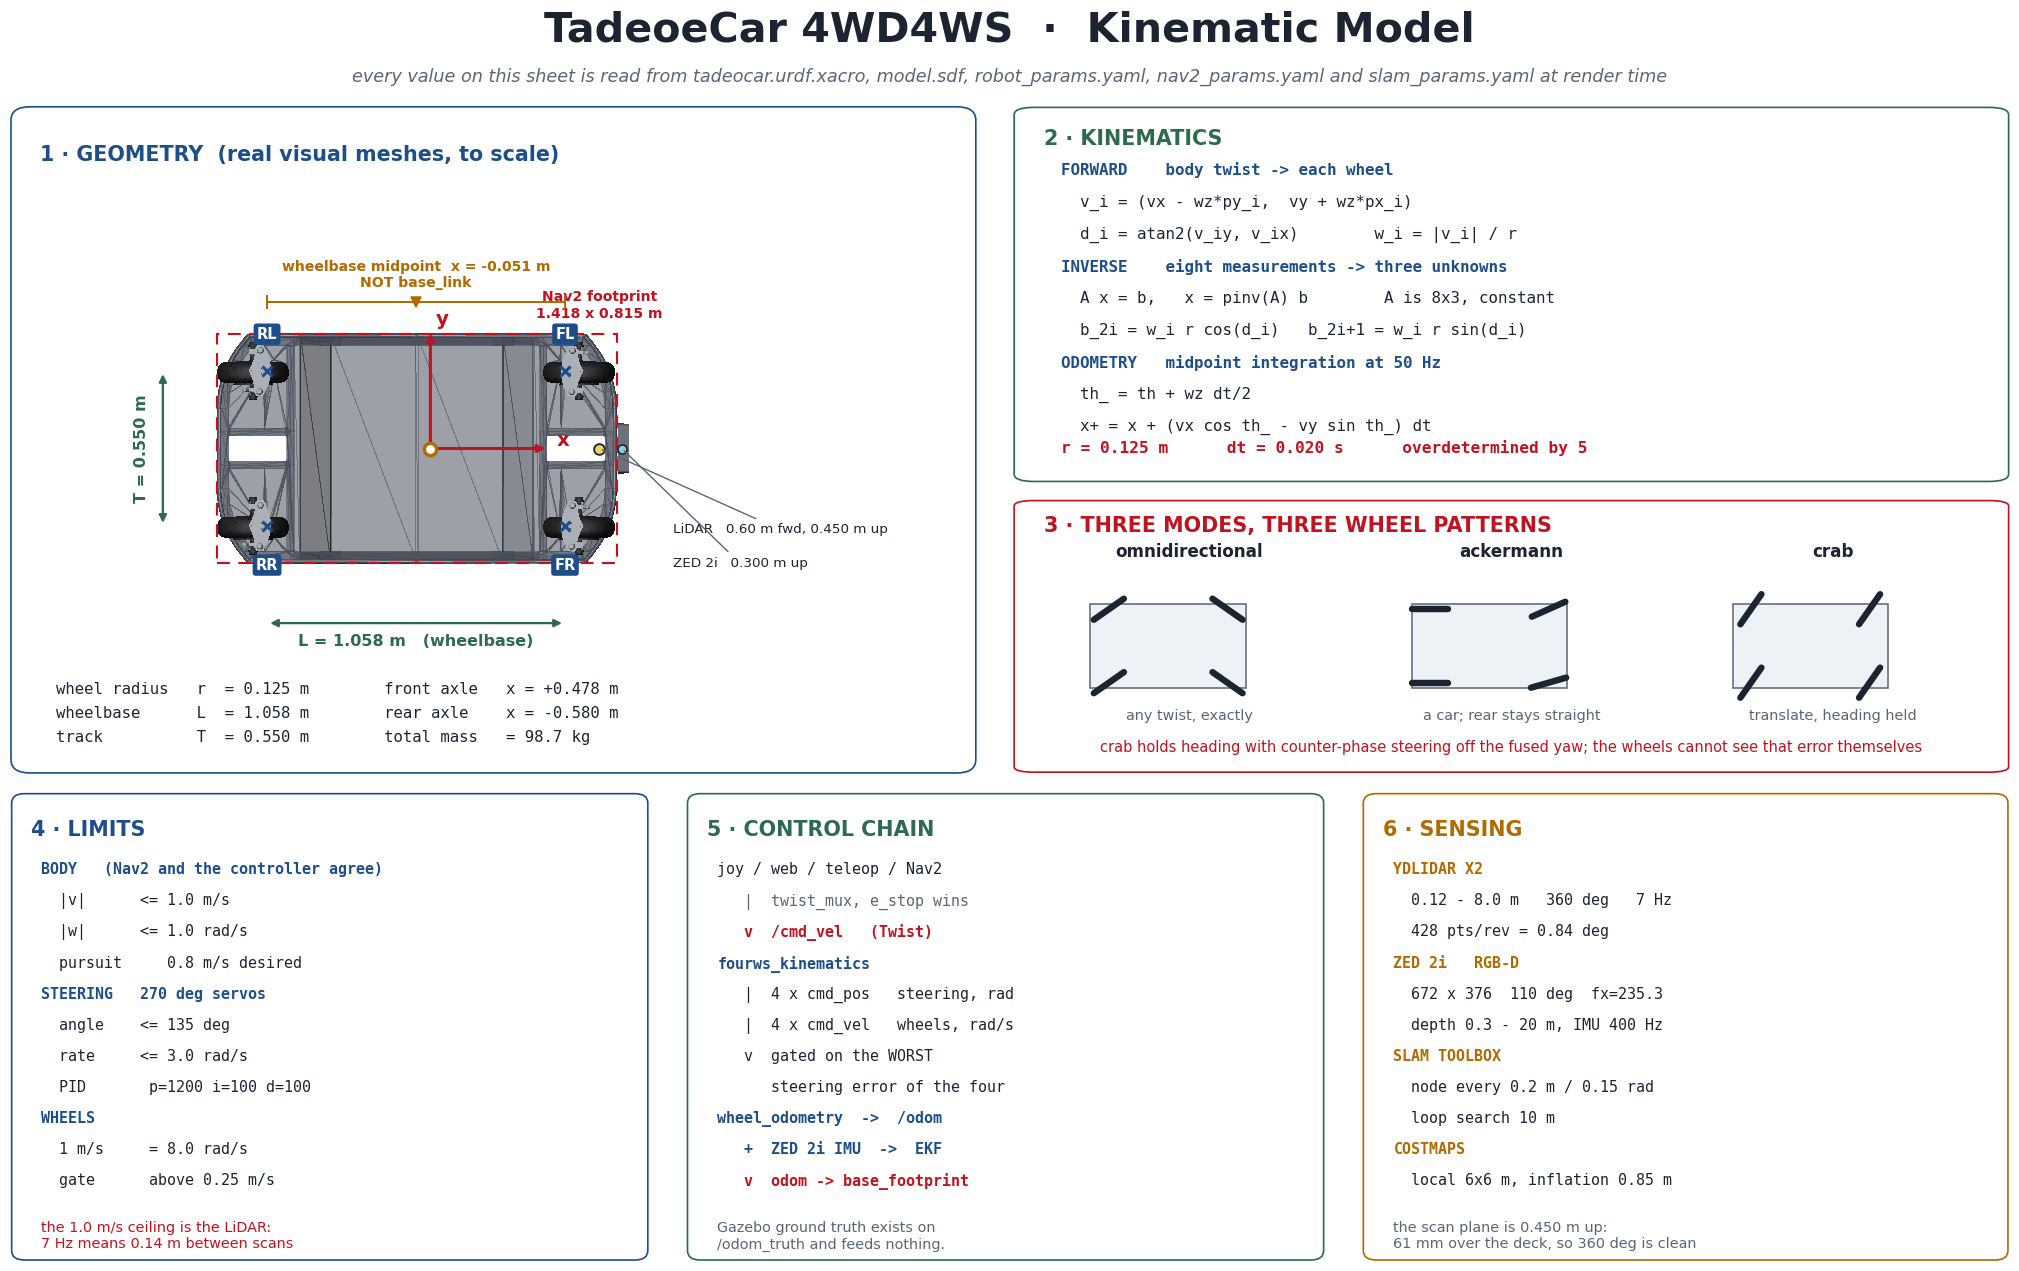
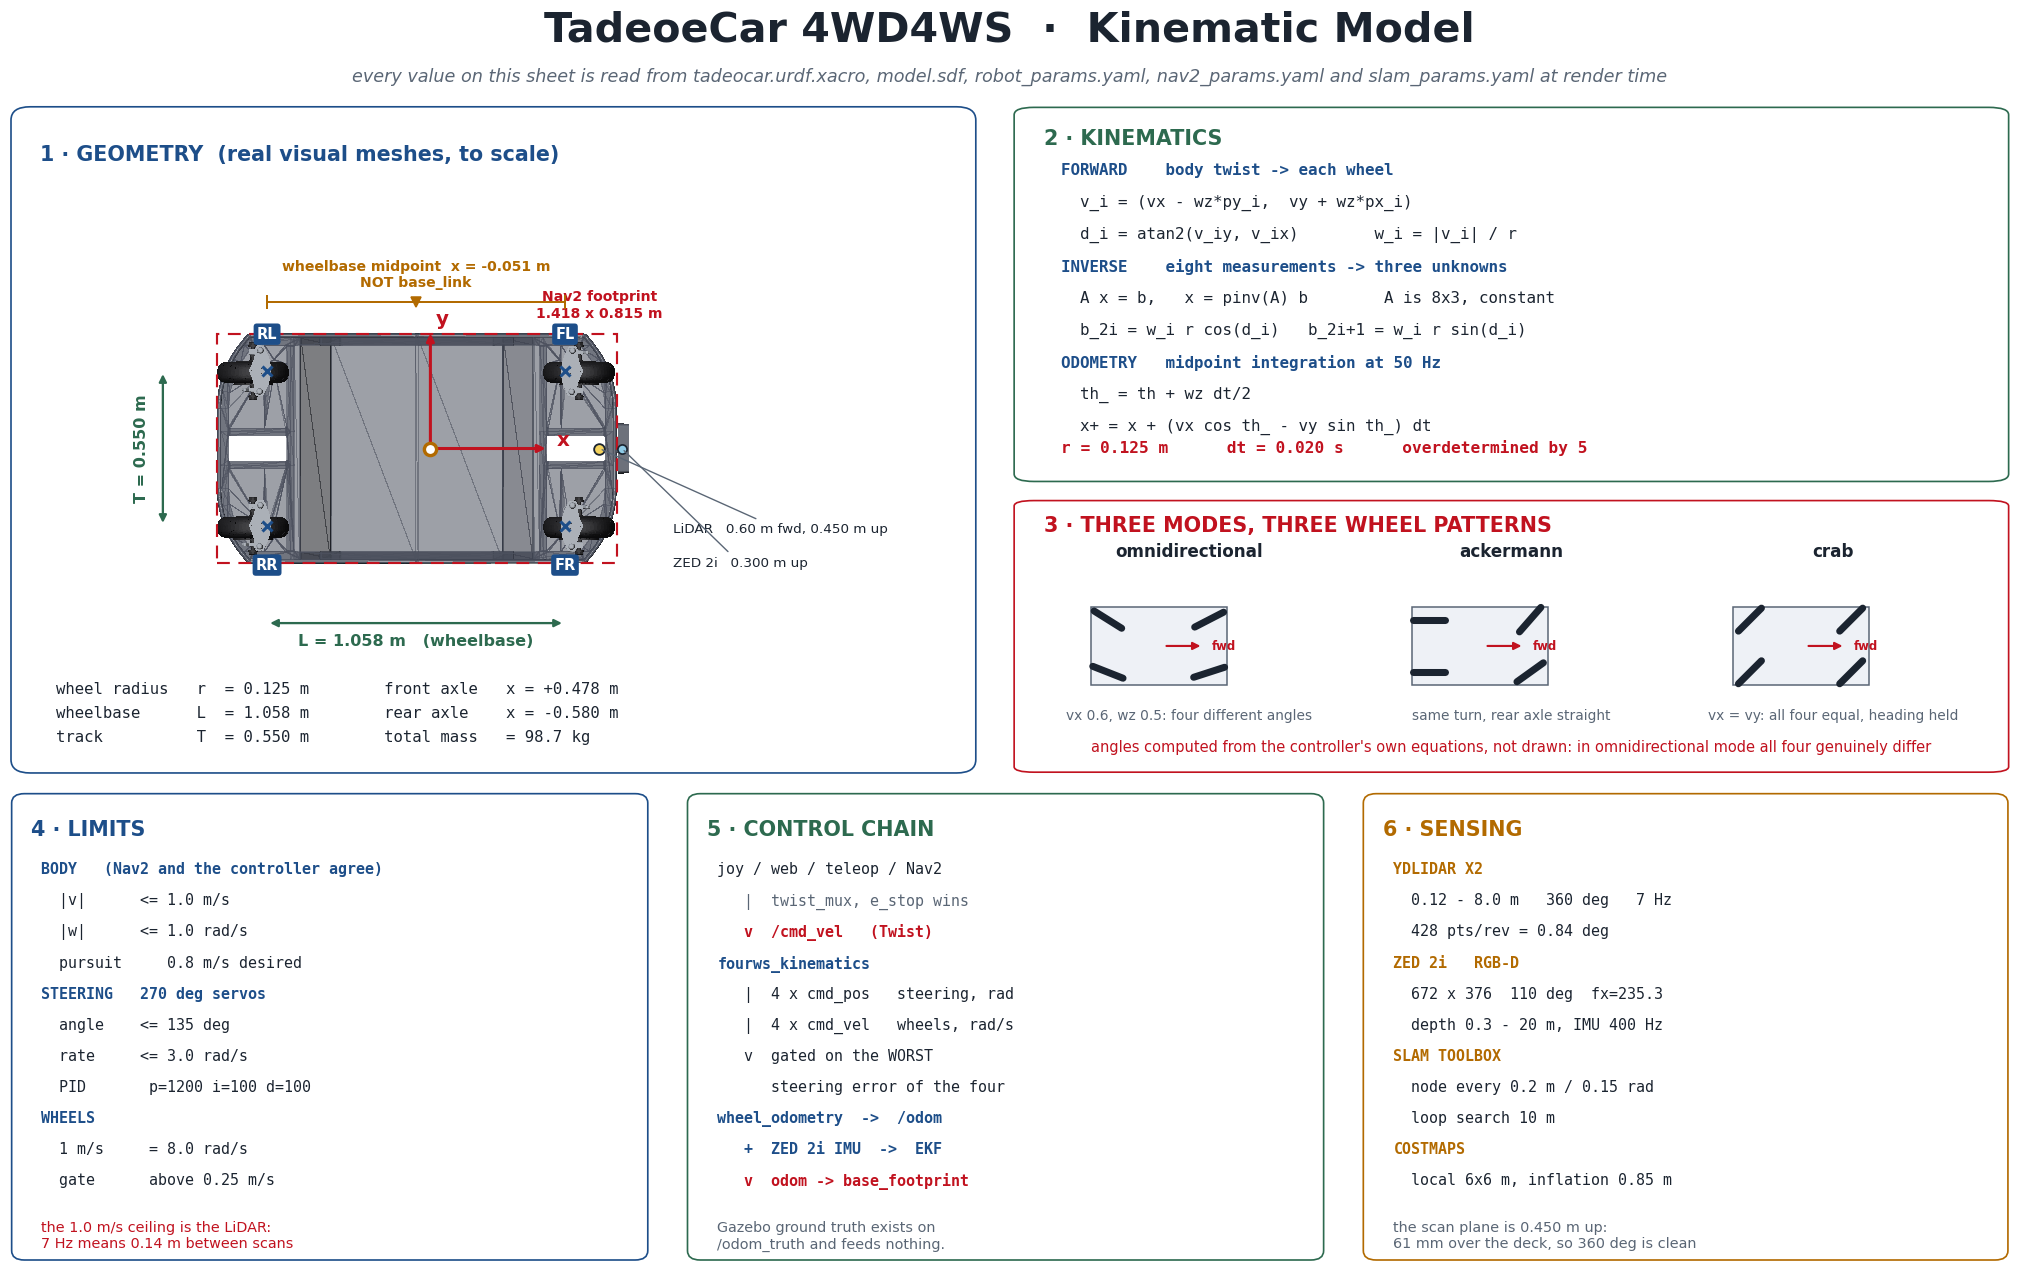
Compute the mode glyphs instead of drawing them
The omnidirectional pattern on the kinematic sheet was wrong. It showed both
front wheels at one angle and both rear wheels at another, which is
counter-phase steering - the pattern the documentation elsewhere is careful to
say is NOT what these modes do. Omnidirectional points every wheel along its
own velocity, so in general all four angles differ:

    vx 0.6, wz 0.5    FL +27.3   FR +18.0   RL -32.1   RR -21.5
    spin in place     FL -60.1   FR +60.1   RL +64.6   RR -64.6
    what was drawn    FL -35.0   FR -35.0   RL +35.0   RR +35.0

No twist produces the third row. The crab pattern was right - all four equal is
exactly what that mode does - and the ackermann one was right in its ordering.

All three are now computed from the same equations the controller uses, for one
representative twist each, so the glyphs cannot disagree with the node any more
than the rest of the sheet can. The mini-diagrams also use the robot's real
deck and wheel proportions and carry a forward arrow, since a top view with no
indication of which way is front is ambiguous.

Changed region(s): [[0.6553, 0.4603, 0.9673, 0.6137], [0.5305, 0.4603, 0.6241, 0.6137]]

diff --git a/docs/mathematical-model/render_diagram.py b/docs/mathematical-model/render_diagram.py
@@ -386,31 +386,68 @@ def render(out):
     # ----------------------------------------------------------- 3 modes ----
     ax = panel(fig, [0.503, 0.400, 0.469, 0.212],
                '3 · THREE MODES, THREE WHEEL PATTERNS', ACCENT)
+    # The wheel angles are COMPUTED from the same equations the controller
+    # uses, for one representative twist per mode, rather than drawn by hand.
+    # Hand-drawn is how the omnidirectional glyph came to show both front
+    # wheels at one angle and both rear at another - which is counter-phase
+    # steering, a pattern this mode never produces. Every wheel points along
+    # its own velocity, so in general all four angles differ.
+    def fold(a):
+        a = math.atan2(math.sin(a), math.cos(a))
+        if a > math.pi / 2:
+            return a - math.pi
+        if a < -math.pi / 2:
+            return a + math.pi
+        return a
+
+    positions = ((fx, ht), (fx, -ht), (rx, ht), (rx, -ht))     # FL FR RL RR
+
+    def omni(vx, vy, wz):
+        return [math.degrees(fold(math.atan2(vy + wz * px, vx - wz * py)))
+                for px, py in positions]
+
+    def ackermann(vx, wz):
+        R = vx / wz
+        return [math.degrees(math.atan(L / (R - ht))),
+                math.degrees(math.atan(L / (R + ht))), 0.0, 0.0]
+
+    def crab(vx, vy):
+        a = math.degrees(fold(math.atan2(vy, vx)))
+        return [a, a, a, a]
+
     for k, (name, angles, note) in enumerate((
-            ('omnidirectional', (-35, -35, 35, 35), 'any twist, exactly'),
-            ('ackermann', (24, 16, 0, 0), 'a car; rear stays straight'),
-            ('crab', (55, 55, 55, 55), 'translate, heading held'))):
+            ('omnidirectional', omni(0.6, 0.0, 0.5),
+             'vx 0.6, wz 0.5: four different angles'),
+            ('ackermann', ackermann(0.6, 0.5),
+             'same turn, rear axle straight'),
+            ('crab', crab(0.35, 0.35),
+             'vx = vy: all four equal, heading held'))):
         cx = 0.175 + 0.325 * k
         m = fig.add_axes([0.516 + 0.152 * k, 0.452, 0.118, 0.093])
         m.set_aspect('equal')
         m.axis('off')
-        m.add_patch(Rectangle((-0.55, -0.30), 1.10, 0.60, fill=True,
+        # Deck and wheel positions to the robot's own proportions, so the
+        # asymmetric wheelbase shows here too. Forward is to the right.
+        m.add_patch(Rectangle((-0.757, -0.408), 1.418, 0.815, fill=True,
                               facecolor='#eef1f6', edgecolor=MUTED, lw=1.0))
-        for (px, py), a in zip(((0.42, 0.26), (0.42, -0.26),
-                                (-0.42, 0.26), (-0.42, -0.26)), angles):
+        for (px, py), a in zip(positions, angles):
             th = math.radians(a)
-            m.plot([px - 0.13 * math.cos(th), px + 0.13 * math.cos(th)],
-                   [py - 0.13 * math.sin(th), py + 0.13 * math.sin(th)],
-                   color=INK, lw=4.2, solid_capstyle='round')
-        m.set_xlim(-0.62, 0.62)
-        m.set_ylim(-0.42, 0.42)
+            m.plot([px - 0.17 * math.cos(th), px + 0.17 * math.cos(th)],
+                   [py - 0.17 * math.sin(th), py + 0.17 * math.sin(th)],
+                   color=INK, lw=4.6, solid_capstyle='round')
+        m.annotate('', xy=(0.42, 0), xytext=(0.0, 0),
+                   arrowprops=dict(arrowstyle='-|>', color=ACCENT, lw=1.4))
+        m.text(0.50, 0.0, 'fwd', color=ACCENT, fontsize=7.6,
+               fontweight='bold', va='center')
+        m.set_xlim(-0.95, 1.05)
+        m.set_ylim(-0.62, 0.62)
         ax.text(cx, 0.845, name, transform=ax.transAxes, fontsize=11,
                 fontweight='bold', color=INK, ha='center', va='top')
-        ax.text(cx, 0.19, note, transform=ax.transAxes, fontsize=9.4,
+        ax.text(cx, 0.19, note, transform=ax.transAxes, fontsize=9.0,
                 color=MUTED, ha='center')
     ax.text(0.5, 0.075,
-            'crab holds heading with counter-phase steering off the fused yaw; '
-            'the wheels cannot see that error themselves',
+            'angles computed from the controller\'s own equations, not drawn: '
+            'in omnidirectional mode all four genuinely differ',
             transform=ax.transAxes, fontsize=9.6, color=ACCENT, ha='center')
 
     # ---------------------------------------------------------- 4 limits ----
